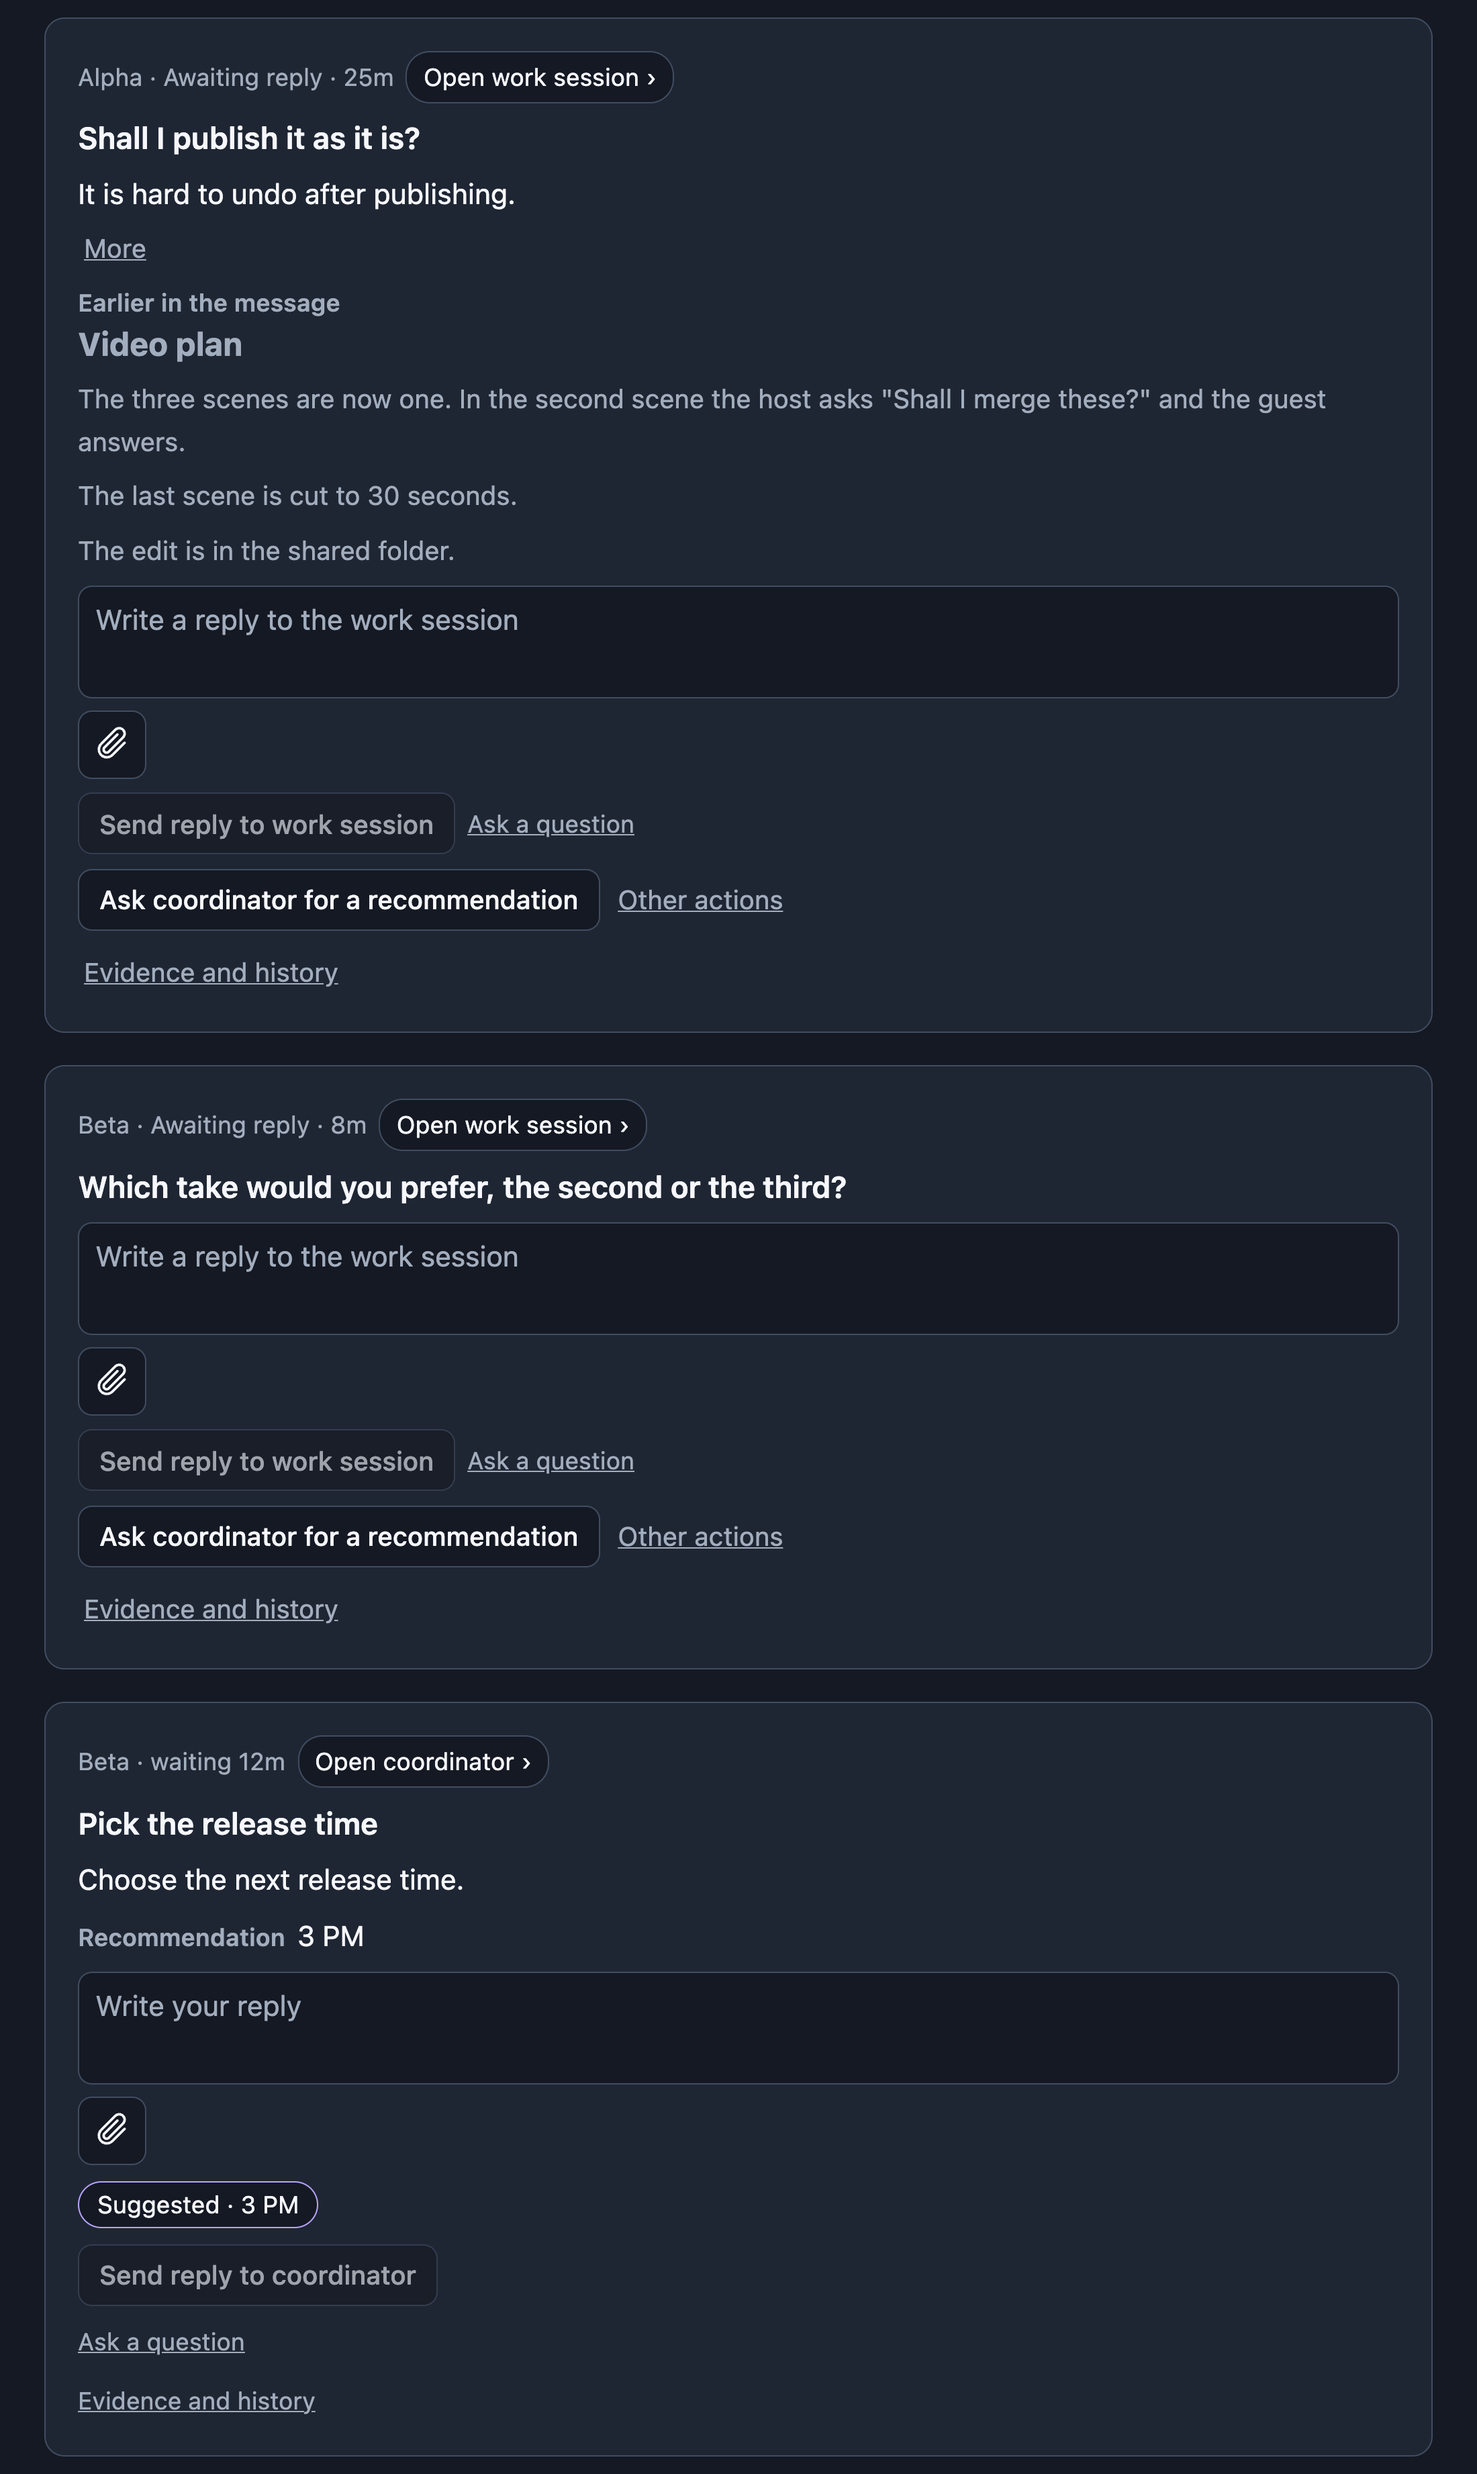
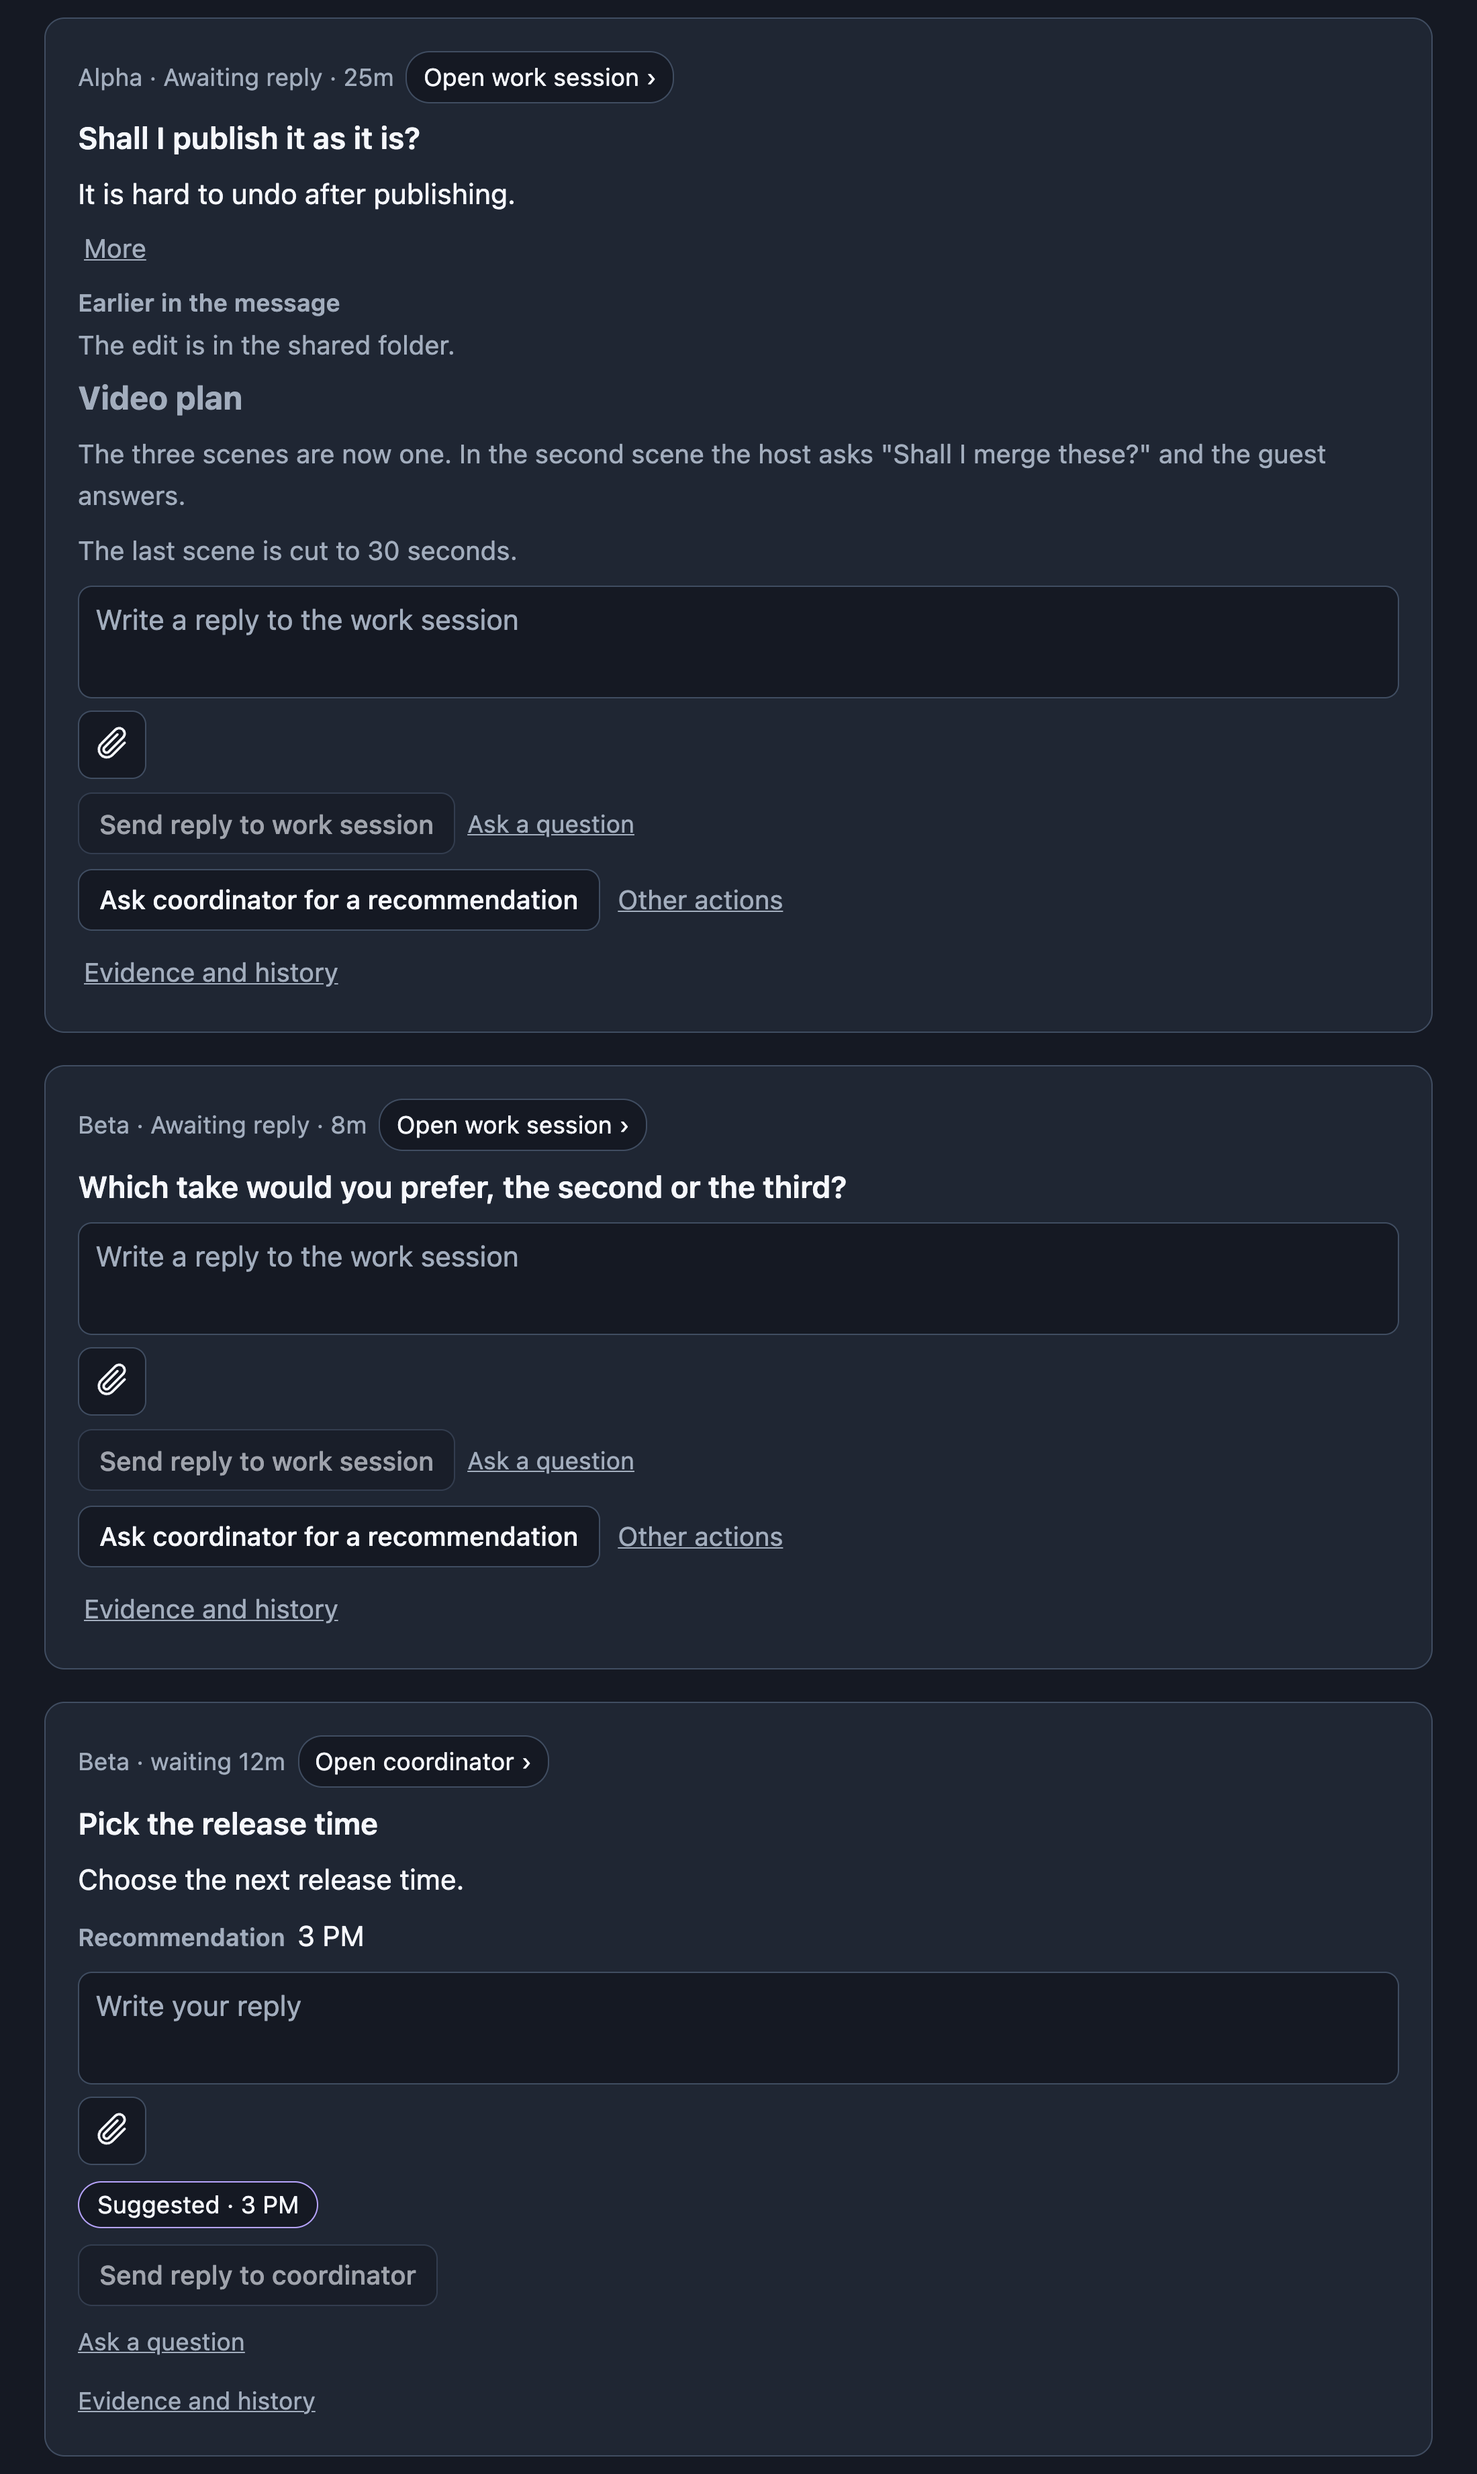
fix: 인치 표시 따옴표 오인과 앞 내용 순서 보완
- 숫자 바로 뒤 큰따옴표(24")는 여는 따옴표로 보지 않음, 시험 추가
- 질문 줄의 앞 문장을 앞 내용 첫머리에 두어 4줄 미리보기 안에 보이게 함
- SessionChipProps 공백 정리, 바꾼 뒤 화면 캡처 갱신

Changed region(s): [[0.0618, 0.1249, 0.8964, 0.2497]]

diff --git a/shared/question-request.ts b/shared/question-request.ts
@@ -3,7 +3,8 @@ const request = /확인해\s*주실\s*것|(?:확인|선택|승인|결정|답변|
 const optionalOffer = /(?:궁금|필요|원하).{0,12}(?:시면|시다면|면).{0,25}(?:알려|말씀|도와)|\b(?:if you (?:like|want)|let me know if)\b/i;
 const noQuestion = /(?:확인해\s*주실\s*것|결정해\s*주실\s*것|확인\s*요청)(?:은|이|이란)?\s*(?:없|없습니다|없음)/;
 // A single quote opens only where a word does not continue into it, so "I've" and "it's" are not quotes.
-const quoted = /“[^”\n]*”|"[^"\n]*"|「[^」\n]*」|『[^』\n]*』|‘[^’\n]*’|(?<![\p{L}\p{N}])'[^'\n]+'(?![A-Za-z0-9])/gu;
+// A double quote right after a digit is an inch mark (24"), not an opening quote.
+const quoted = /“[^”\n]*”|(?<!\d)"[^"\n]*"|「[^」\n]*」|『[^』\n]*』|‘[^’\n]*’|(?<![\p{L}\p{N}])'[^'\n]+'(?![A-Za-z0-9])/gu;
 
 /** The line with quoted text blanked out, at the same length so positions still match the original. */
 export function unquoted(line: string) {

diff --git a/client/decision-actions.tsx b/client/decision-actions.tsx
@@ -140,7 +140,7 @@ export function DecisionActions({ card, theme, hostLabel, coordinator, coordinat
   const bodyFolds = foldsAsk([parts.body]);
   // The title keeps two lines. A longer request sentence opens with the body.
   const questionFolds = bodyFolds || (split && parts.title.length > 60);
-  const context = [decision?.contextMarkdown, parts.lead].filter(Boolean).join("\n\n") || undefined;
+  const context = [parts.lead, decision?.contextMarkdown].filter(Boolean).join("\n\n") || undefined;
   const adviceSent = !!coordinator && requestedFrom === coordinator;
   const disclose = (label: string, expanded: boolean, onPress: () => void) =>
     <Pressable accessibilityRole="button" accessibilityLabel={named(label).accessibilityLabel} accessibilityState={{ expanded }}

diff --git a/test/question-line.test.ts b/test/question-line.test.ts
@@ -29,6 +29,12 @@ test("a request outside the quotes is still a request, and a quote does not hide
   expect(details?.context).toContain("라고 묻습니다");
 });
 
+test("an inch mark is not an opening quote", () => {
+  expect(asksForDecision("24\" 모니터로 할까요? \"27\"은 비쌉니다.")).toBe(true);
+  expect(unquoted("24\" 모니터로 할까요? \"27\"은 비쌉니다.")).toBe("24\" 모니터로 할까요? ____은 비쌉니다.");
+  expect(asksForDecision("Shall I order the 24\" screen? The \"27\" one costs more.")).toBe(true);
+});
+
 test("quote masking keeps the length of the line", () => {
   const line = "진행자가 “합칠까요?”라고 묻고, 'yes'를 기다립니다.";
   expect(unquoted(line)).toHaveLength(line.length);

diff --git a/client/controls.tsx b/client/controls.tsx
@@ -33,7 +33,7 @@ export function CardHeader({ text, theme, children }: { text: string; theme: The
   </View>;
 }
 
-export type SessionChipProps ={ label: string; accessibilityLabel: string; onPress: () => void; theme: Theme };
+export type SessionChipProps = { label: string; accessibilityLabel: string; onPress: () => void; theme: Theme };
 
 export function SessionChip({ label, accessibilityLabel, onPress, theme }: SessionChipProps) {
   const c = theme.colors;
